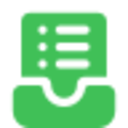
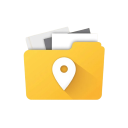
Update README and improve Google Maps place ID extraction
- Enhanced README with detailed feature descriptions and usage examples
- Improved Google Maps place ID extraction with fallback methods
- Updated extension icons for better visual consistency
- Added platform-specific success message colors
- Refined documentation structure and removed unnecessary sections

🤖 Generated with [Claude Code](https://claude.ai/code)

diff --git a/content.js b/content.js
@@ -275,11 +275,27 @@ class GoogleMapExtractor extends BaseMapExtractor {
   extractPlaceIdFromURL() {
     const url = window.location.href;
     if (url.includes('/place/')) {
+      // 방법 1: URL에서 직접 place ID 추출 (/place/{place_name}/data=...!1s{place_id}!)
       const dataMatch = url.match(/data=([^&]+)/);
       if (dataMatch) {
         const decodedData = decodeURIComponent(dataMatch[1]);
-        const placeIdMatch = decodedData.match(/1s([^!]+)/);
-        return placeIdMatch ? placeIdMatch[1] : null;
+        // !1s 이후의 place ID 찾기 (마지막 !1s 사용)
+        const placeIdMatches = decodedData.match(/!1s([^!]+)/g);
+        if (placeIdMatches && placeIdMatches.length > 0) {
+          // 마지막 !1s 패턴에서 place ID 추출
+          const lastMatch = placeIdMatches[placeIdMatches.length - 1];
+          const placeId = lastMatch.replace('!1s', '');
+          console.log('추출된 구글 place ID:', placeId);
+          return placeId;
+        }
+      }
+      
+      // 방법 2: URL path에서 place 이름 사용 (fallback)
+      const pathMatch = url.match(/\/place\/([^\/]+)/);
+      if (pathMatch) {
+        const placeName = decodeURIComponent(pathMatch[1]);
+        console.log('place 이름으로 ID 생성:', placeName);
+        return placeName;
       }
     }
     return null;
@@ -1464,18 +1480,22 @@ class MapScraper {
   }
 
   showSuccessMessage(message) {
+    const platform = PlatformDetector.detectCurrentPlatform();
+    const platformColor = PlatformDetector.getPlatformColor(platform);
+    
     const messageDiv = document.createElement('div');
     messageDiv.style.cssText = `
       position: fixed;
       top: 20px;
       right: 20px;
-      background: #03c75a;
+      background: ${platformColor};
       color: white;
       padding: 12px 20px;
       border-radius: 6px;
       z-index: 10002;
       font-size: 14px;
       box-shadow: 0 2px 10px rgba(0,0,0,0.2);
+      font-weight: bold;
     `;
     messageDiv.textContent = message;
     document.body.appendChild(messageDiv);

diff --git a/README.md b/README.md
@@ -4,13 +4,12 @@
 
 ![Chrome Extension](https://img.shields.io/badge/Chrome-Extension-4285F4?style=flat-square&logo=googlechrome&logoColor=white)
 ![Version](https://img.shields.io/badge/Version-1.0-brightgreen?style=flat-square)
-![License](https://img.shields.io/badge/License-MIT-blue?style=flat-square)
 
 ## 🌟 주요 기능
 
 ### 💎 커스텀 필드 시스템 (핵심 기능)
-- **텍스트형 필드**: 가격대, 주차정보, 특이사항 등 자유로운 정보 입력
-- **선택형 필드**: 방문여부, 평점, 우선순위 등 미리 정의된 옵션 선택
+- **텍스트형 필드**: 가격대, 특이사항 등 자유로운 정보 입력
+- **선택형 필드**: 주차여부, 우선순위 등 미리 정의된 옵션 선택(사용자가 직접 정의)
 - **맞춤형 데이터베이스**: 맛집 탐방, 여행 계획, 부동산 검색 등 용도별 완전 커스터마이즈
 
 ### 🗺 다중 플랫폼 지원
@@ -21,6 +20,7 @@
 ### 📊 데이터 관리
 - **자동 정보 추출**: 장소명, 카테고리, 별점 자동 수집
 - **목록별 관리**: 여러 목록으로 장소 분류
+- **목록별 커스텀 필드**: 목록 내 모든 장소들에 대해 커스텀 필드 설정 가능
 - **메모 기능**: 각 장소에 개별 노트 추가
 - **백업/복원**: CSV, JSON 형식으로 데이터 내보내기/가져오기
 
@@ -57,7 +57,8 @@
 - 맛집, 여행지, 부동산 등 용도별 맞춤 설정
 
 ### 6⃣ 데이터 백업
-'데이터 내보내기'로 CSV/JSON 백업 및 다른 기기에서 복원
+'데이터 내보내기'로 JSON 백업 및 다른 기기에서 복원
+CSV 파일로 내보내기 기능으로 편리한 사용 가능
 
 ## 🎯 활용 사례
 
@@ -67,8 +68,8 @@
 커스텀 필드: 
 - 방문여부 (가봤음/안가봤음)
 - 나의 평점 (1-5점)
-- 가격대 (저렴/보통/비쌈)
-- 주차 가능 여부
+- 가격대 (저렴,보통,비쌈)
+- 주차 가능 여부(O, X)
 ```
 
 ### ✈ 여행 계획
@@ -76,7 +77,6 @@
 목록: "서울 여행", "부산 여행"
 커스텀 필드:
 - 우선순위 (높음/보통/낮음)
-- 동행자
 - 예상 비용
 - 방문 계획일
 ```
@@ -86,9 +86,8 @@
 목록: "아파트 후보", "오피스텔 후보"
 커스텀 필드:
 - 가격대
-- 교통편 점수
+- (교통) 접근성 점수
 - 장단점
-- 연락처
 ```
 
 ## 🛠 기술 스택
@@ -103,20 +102,11 @@
 
 - **총 코드 라인**: 2,900+ 라인
 - **지원 플랫폼**: 3개 (네이버, 카카오, 구글)
-- **개발 기간**: 10시간
-- **핵심 진화**: 단순 스크랩 → 커스텀 데이터베이스
-
-## 🤝 기여하기
-
-1. 이 저장소를 포크
-2. 새 기능 브랜치 생성 (`git checkout -b feature/amazing-feature`)
-3. 변경사항 커밋 (`git commit -m 'Add amazing feature'`)
-4. 브랜치에 푸시 (`git push origin feature/amazing-feature`)
-5. Pull Request 생성
-
-## 📝 라이선스
-
-MIT License - 자세한 내용은 [LICENSE](LICENSE) 파일 참조
+- **개발 기간**: 5일 (7/10 ~ 7.14)
+- **핵심 작업**
+  - 단순 스크랩 → 커스텀 데이터베이스
+  - 네이버 지도만 가능 -> 네이버, 카카오, 구글 가능 및 확장 용이한 코드 구축
+  - UI 개선
 
 ## 📧 연락처
 
@@ -145,5 +135,14 @@ MIT License - 자세한 내용은 [LICENSE](LICENSE) 파일 참조
 - 📝 기본 장소 스크랩 기능
 
 ---
+### git 관리 이전의 내용
+2025-07-10 최초 개발 착수.
+2025-07-11 MVP를 네이버 지도에서 구현한 프로토타입 완성
+2025-07-12 목록 관리 및 목록별 커스텀 필드 구성이 가능하도록 데이터베이스 방식 변경
+2025-07-13 디버깅, 성능 최적화 및 UI UX 개선. 카카오, 구글 추가 과정에서 대규모 오류 발생 및 수동 백업 미흡으로 작업한 것들 모두 초기화. git 필요성 절감.
+2025-07-14 git 이해 및 백업 시작. 다중 플랫폼 시스템 구축(네이버, 카카오, 구글). 확장 용이한 코드 구현. 디버깅 및 UI UX 개선 등.
 
-**CustomPlaceDB**로 나만의 장소 데이터베이스를 구축해보세요! 🚀
+관련 게시물
+- (Notion): 
+
+**CustomPlaceDB**로 나만의 장소 데이터베이스를 구축해보세요! 🚀##
